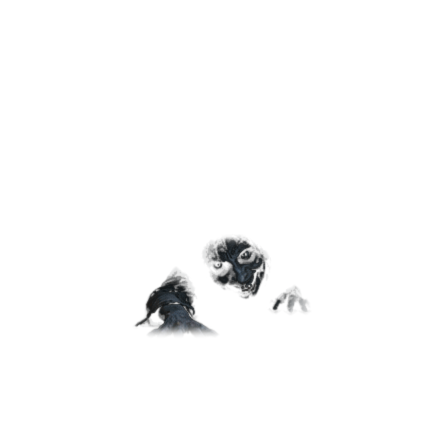
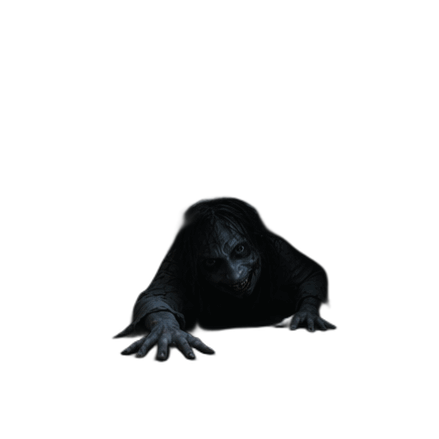
update

Changed region(s): [[0.2665, 0.4442, 0.7699, 0.8292]]

diff --git a/projects/iat-806/assignments/assignment-02/rooms.js b/projects/iat-806/assignments/assignment-02/rooms.js
@@ -412,8 +412,8 @@ function setupRooms() {
       signText: "right hand OPEN",
       creator: drawBedroom,
       appearance: {
-        x: floorPoint(0.75, 0.22).x,
-        y: floorPoint(0.75, 0.22).y - wallHeightAt(0.22) * 0.04,
+        x: 450,
+        y: 330,
         s: 0.28,
       },
       end: { x: width * 0.55, y: height * 0.68, s: 2.4 },
